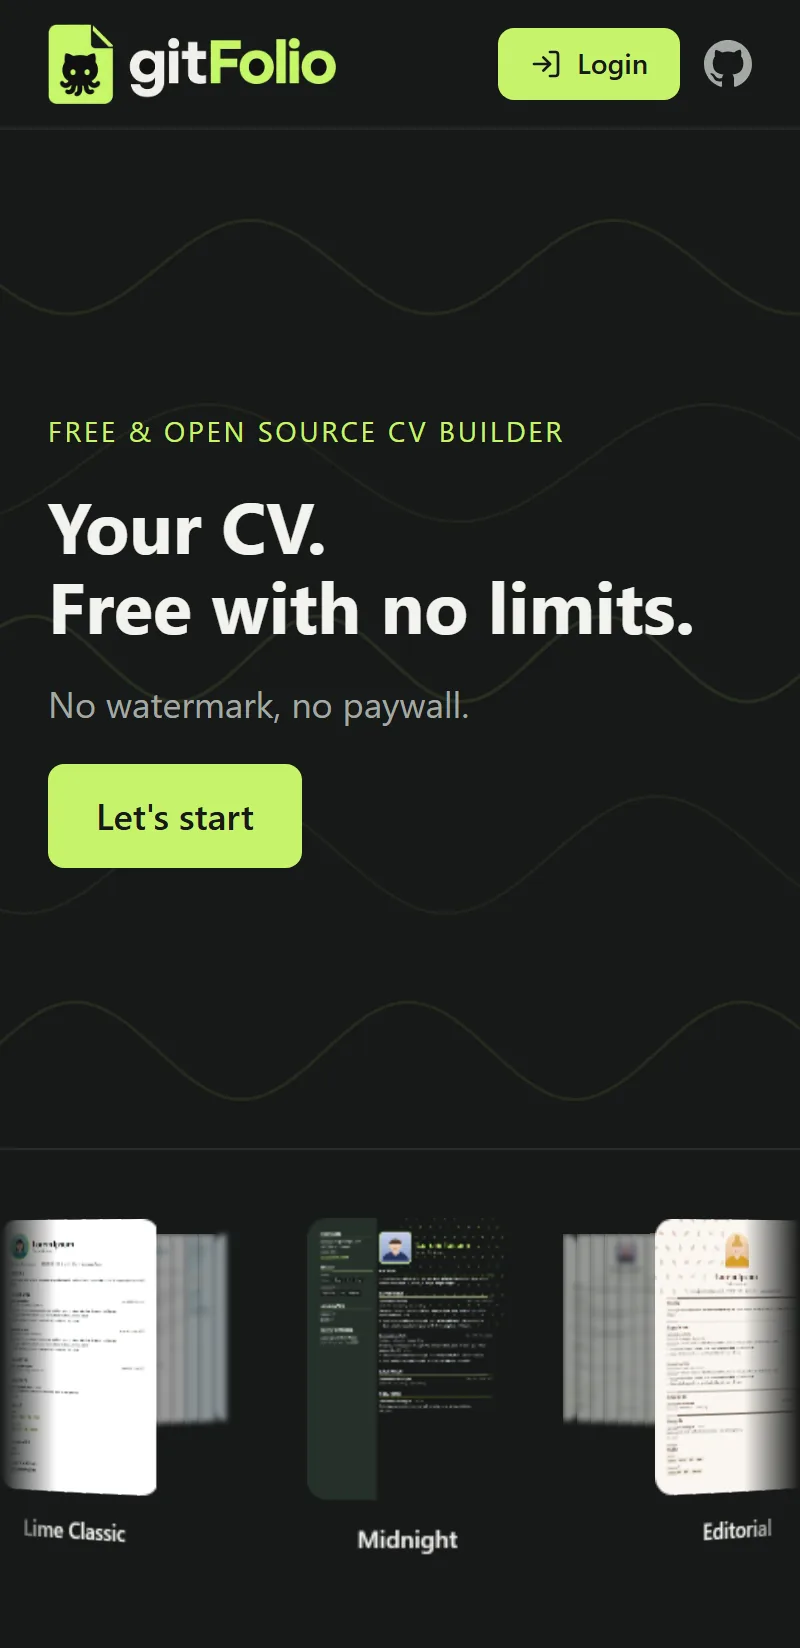
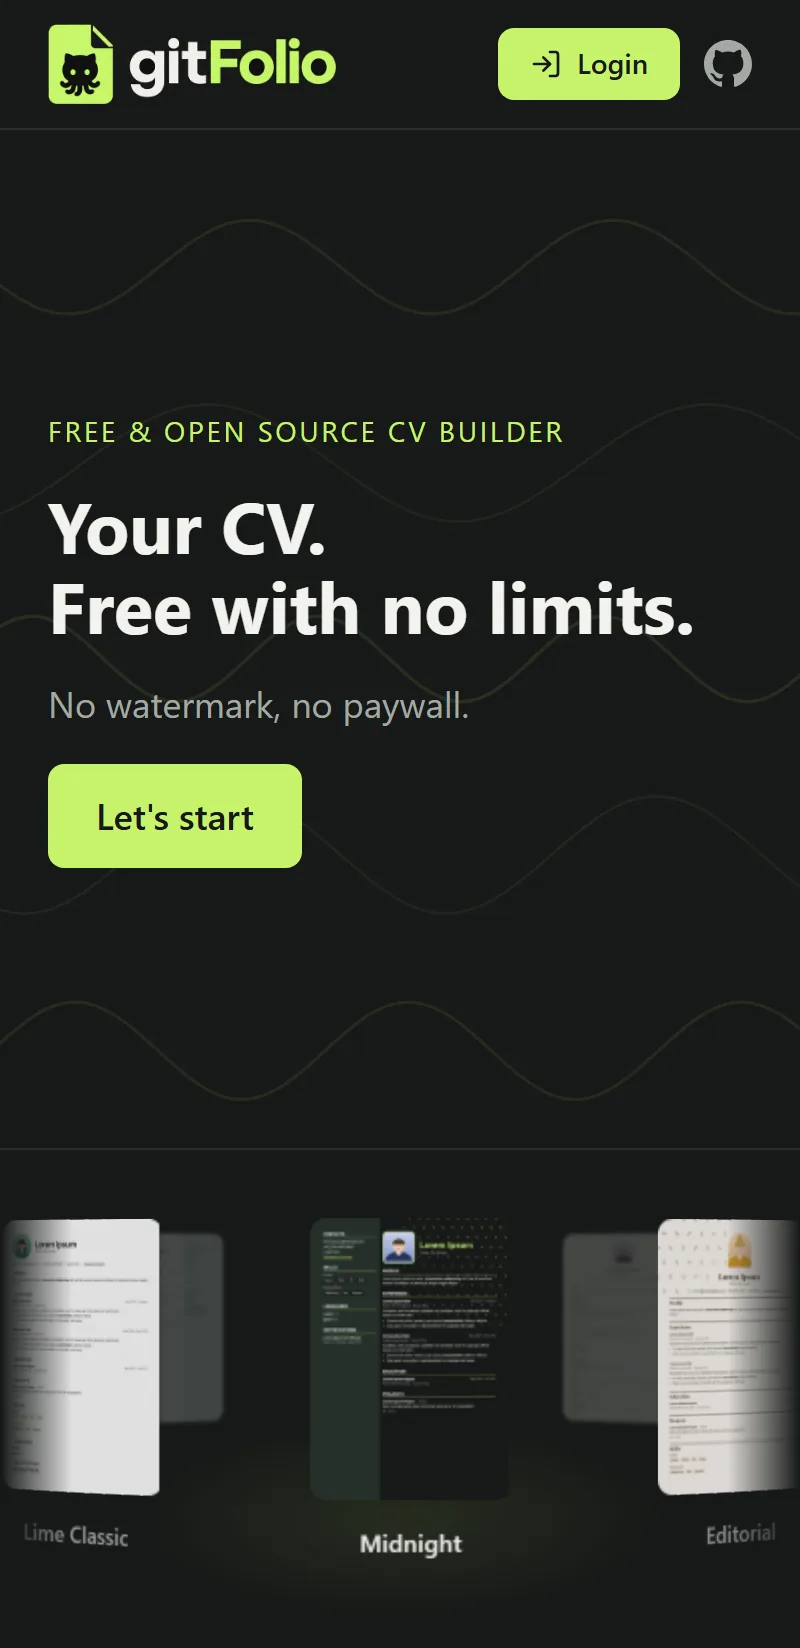
feat(landing): crisp premium carousel, iPhone interaction hint, hero shifted right
Carousel
- Fix the grainy look: 3D cards are GPU textures scaled without mipmaps, so the
  640px thumbnails aliased when shrunk ~5x. Cards now use pre-scaled Lanczos
  versions at display size (-c1 132px / -c2 264px via image-set); generator updated
- Depth lighting: side cards fade toward the background by angle (colour veil,
  not opacity, so overlapping slices don't show stripes)
- Far side of the ring is one soft blurred plane per card instead of 9 strips
- Soft lime spotlight under the front card, hover lift, "Use template ->" pill
  (on hover/focus; always visible on touch devices), muted side labels

iPhone
- Until first touched it swings right and back every ~6.5s and shows a pulsing
  "Drag to rotate" hint that fades out on the first drag
- Phone screen screenshot refreshed; phone + heading moved 64px right on >= xl

diff --git a/src/app/globals.css b/src/app/globals.css
@@ -23,17 +23,24 @@ body { background: var(--bg); color: var(--fg); font-family: system-ui, sans-ser
 :focus-visible { outline: 2px solid var(--focus); outline-offset: 2px; }
 @media (prefers-reduced-motion: reduce) { * { animation: none !important; transition: none !important; } }
 
-/* Carosello 3D: anello inclinato, card "curve" (fette lungo la circonferenza), posizione gestita da JS nel componente. */
+/* Carosello 3D: anello con card "curve" (fette lungo la circonferenza), posizione gestita da JS nel componente.
+   Nitidezza: le card sono texture GPU ridimensionate senza mipmap, quindi le immagini arrivano già alla misura mostrata
+   (-c1 = 132 px per schermi 1x, -c2 = 264 px per schermi 2x) invece di 640 px che darebbero un effetto puntinato. */
 .ring-stage {
-  --w: 100; --gap: 80; --slices: 9;
+  --w: 100; --gap: 80; --slices: 9; --radius: 8px;
   --card-w: calc(var(--w) * 1px);
   --card-h: calc(var(--card-w) * 1.414);
   --ring-r: calc((var(--card-w) + var(--gap) * 1px) * var(--n) / 6.28318);       /* raggio: card distanziate, anello ampio */
   --theta: calc(360deg * var(--w) / ((var(--w) + var(--gap)) * var(--n)));       /* angolo coperto da una card */
   position: relative; height: var(--stage-h); perspective: 1300px; perspective-origin: 50% 22%;
   overflow: hidden; user-select: none;
-  -webkit-mask-image: linear-gradient(90deg, transparent, #000 7%, #000 93%, transparent);
-  mask-image: linear-gradient(90deg, transparent, #000 7%, #000 93%, transparent);
+  -webkit-mask-image: linear-gradient(90deg, transparent, #000 9%, #000 91%, transparent);
+  mask-image: linear-gradient(90deg, transparent, #000 9%, #000 91%, transparent);
+}
+/* faretto morbido sotto la card davanti: dà un "palco" alla scena */
+.ring-stage::before {
+  content: ''; position: absolute; inset: 0; pointer-events: none;
+  background: radial-gradient(ellipse calc(var(--card-w) * 1.9) calc(var(--card-h) * .5) at 50% calc(50% + var(--card-h) / 2 - .4rem), rgb(198 243 107 / .09), transparent 70%);
 }
 /* altezza del carosello: serve anche alla home per calcolare lo spazio rimasto alla parte centrale */
 :root { --stage-h: 14rem; }
@@ -45,40 +52,67 @@ body { background: var(--bg); color: var(--fg); font-family: system-ui, sans-ser
 .ring-tilt { position: absolute; inset: 0; transform-style: preserve-3d; pointer-events: none; }
 .ring-track {
   position: absolute; left: 50%; top: calc(50% - var(--card-h) / 2 - 1rem); width: var(--card-w); height: var(--card-h); margin-left: calc(var(--card-w) / -2);
-  transform-style: preserve-3d; will-change: transform;
+  transform-style: preserve-3d; will-change: transform; transition: transform var(--glide) cubic-bezier(.22, .8, .25, 1);
 }
 .ring-card { position: absolute; inset: 0; transform-style: preserve-3d; }
-.ring-link { position: absolute; inset: 0; display: block; transform-style: preserve-3d; outline: none; }
+.ring-link { position: absolute; inset: 0; display: block; transform-style: preserve-3d; outline: none; transition: transform .35s cubic-bezier(.22, .8, .25, 1); }
+/* la luce è un velo del colore di fondo sopra l'immagine (non opacity: le fette sovrapposte farebbero righe) */
+.ring-slice, .ring-back {
+  --shade: calc(1 - var(--lit, 1));
+  background-image: linear-gradient(rgb(23 25 24 / var(--shade)), rgb(23 25 24 / var(--shade))), image-set(var(--img1) 1x, var(--img2) 2x);
+  background-repeat: no-repeat;
+}
 .ring-slice {
   position: absolute; top: 0; height: var(--card-h);
   width: calc(var(--card-w) / var(--slices) + 2px);                                  /* +2px di sovrapposizione: niente cuciture tra le fette */
   left: calc(50% - var(--card-w) / var(--slices) / 2);
-  background-size: var(--card-w) var(--card-h); background-repeat: no-repeat;
-  background-position: calc(var(--jb) * var(--card-w) / var(--slices) * -1) 0;
+  background-size: 100% 100%, var(--card-w) var(--card-h);
+  background-position: 0 0, calc(var(--j) * var(--card-w) / var(--slices) * -1) 0;
   transform: rotateY(calc(var(--a) + (var(--j) - 4) * var(--theta) / var(--slices))) translateZ(var(--ring-r));
-  backface-visibility: hidden; transition: filter .25s; pointer-events: auto;
+  backface-visibility: hidden; pointer-events: auto;
 }
-/* faccia interna: stessa posizione, girata di 180°; più scura perché è il lato "di fondo" dell'anello */
-.ring-slice-in { transform: rotateY(calc(var(--a) + (var(--j) - 4) * var(--theta) / var(--slices))) translateZ(var(--ring-r)) rotateY(180deg); filter: brightness(.6) blur(2.2px); }
-.ring-slice:nth-of-type(1), .ring-slice:nth-of-type(10) { border-radius: 10px 0 0 10px; }
-.ring-slice:nth-of-type(9), .ring-slice:nth-of-type(18) { border-radius: 0 10px 10px 0; }
+.ring-slice:nth-of-type(1) { border-radius: var(--radius) 0 0 var(--radius); }
+.ring-slice:nth-of-type(9) { border-radius: 0 var(--radius) var(--radius) 0; }
+/* faccia interna (card sul lato di fondo): un solo piano scuro e sfocato, nessuna striscia */
+.ring-back {
+  position: absolute; top: 0; left: 0; width: var(--card-w); height: var(--card-h); border-radius: var(--radius);
+  --lit: .5; background-size: cover; transform: rotateY(var(--a)) translateZ(var(--ring-r)) rotateY(180deg);
+  backface-visibility: hidden; filter: blur(1.6px); opacity: .4;
+}
+.ring-label, .ring-cta { position: absolute; top: 0; left: 0; width: var(--card-w); transform: rotateY(var(--a)) translateZ(calc(var(--ring-r) + 1px)); backface-visibility: hidden; }
 .ring-label {
-  position: absolute; top: 0; left: 0; width: var(--card-w); margin-top: calc(var(--card-h) + 10px); text-align: center;
-  font-size: 12px; font-weight: 600; color: var(--fg);
-  transform: rotateY(var(--a)) translateZ(var(--ring-r)); backface-visibility: hidden; transition: color .25s; pointer-events: auto;
+  margin-top: calc(var(--card-h) + 12px); text-align: center; white-space: nowrap;
+  font-size: 12px; font-weight: 500; letter-spacing: .01em; color: var(--fg-muted);
+  opacity: var(--lit); transition: color .25s, opacity var(--glide) ease-out; pointer-events: auto;
 }
-.ring-link:hover .ring-slice:not(.ring-slice-in) { filter: brightness(1.08); }
-.ring-label-in { display: none; } /* i nomi delle card sul lato di fondo creerebbero solo confusione */
+/* pulsante sulla card davanti: rende evidente che il clic apre l'editor con quel template */
+.ring-cta {
+  display: flex; justify-content: center; margin-top: calc(var(--card-h) - 26px); pointer-events: none;
+  opacity: 0; transition: opacity .3s;
+}
+.ring-cta > span {
+  padding: 3px 9px; border-radius: 999px; font-size: 9.5px; font-weight: 600; letter-spacing: .01em; white-space: nowrap;
+  background: var(--accent); color: var(--accent-fg); box-shadow: 0 4px 14px rgb(0 0 0 / .35);
+}
+.ring-card[aria-current] .ring-label { color: var(--fg); font-weight: 600; }
+/* il pulsante compare al passaggio del mouse / col focus; sui dispositivi touch (niente hover) è sempre visibile sulla card davanti */
+.ring-card[aria-current] .ring-link:focus-visible .ring-cta { opacity: 1; }
+@media (hover: none) { .ring-card[aria-current] .ring-cta { opacity: .9; transition-delay: .25s; } }
+.ring-card[aria-current] .ring-link:hover { transform: translateY(-6px); }
+.ring-card[aria-current] .ring-link:hover .ring-cta { opacity: 1; }
 .ring-link:hover .ring-label, .ring-link:focus-visible .ring-label { color: var(--accent-text); }
-.ring-link:focus-visible .ring-slice { box-shadow: inset 0 0 0 2px var(--accent); }
+.ring-link:focus-visible .ring-slice { box-shadow: inset 0 2px 0 var(--accent), inset 0 -2px 0 var(--accent); }
+.ring-link:focus-visible .ring-slice:nth-of-type(1) { box-shadow: inset 2px 2px 0 var(--accent), inset 0 -2px 0 var(--accent); }
+.ring-link:focus-visible .ring-slice:nth-of-type(9) { box-shadow: inset -2px 2px 0 var(--accent), inset 0 -2px 0 var(--accent); }
 @media (prefers-reduced-motion: reduce) {
   .ring-stage { flex: none; height: auto; perspective: none; overflow-x: auto; mask-image: none; -webkit-mask-image: none; cursor: auto !important; }
+  .ring-stage::before { display: none; }
   .ring-tilt { position: static; transform: none; }
   .ring-track { position: static; display: flex; gap: 1.25rem; width: max-content; height: auto; margin: 0 auto; padding: 0 1.5rem; transform: none !important; transition: none !important; }
   .ring-card { position: relative; width: var(--card-w); height: calc(var(--card-h) + 2rem); }
-  .ring-slice { left: calc(var(--j) * var(--card-w) / var(--slices)); transform: none; backface-visibility: visible; }
-  .ring-slice-in, .ring-label-in { display: none; }
-  .ring-label { transform: none; }
+  .ring-slice { left: calc(var(--j) * var(--card-w) / var(--slices)); transform: none; backface-visibility: visible; opacity: 1; }
+  .ring-back, .ring-cta { display: none; }
+  .ring-label { transform: none; opacity: 1; }
 }
 
 .ring-section { display: flex; flex-direction: column; flex: none; }
@@ -127,6 +161,15 @@ body { background: var(--bg); color: var(--fg); font-family: system-ui, sans-ser
 }
 .phone-lens-1 { left: 5%; top: 8%; } .phone-lens-2 { left: 5%; bottom: 8%; } .phone-lens-3 { left: 24%; top: 30%; }
 .phone-flash { position: absolute; right: 12%; top: 16%; width: 9%; aspect-ratio: 1; border-radius: 50%; background: radial-gradient(#fff6e0, #d9c9a8); }
+.phone-hint {
+  position: absolute; left: 50%; top: calc(100% + var(--ph) * 0.06); transform: translateX(-50%);
+  display: flex; align-items: center; gap: 6px; white-space: nowrap; pointer-events: none;
+  font-size: 12px; font-weight: 500; color: var(--fg-muted);
+  animation: phone-hint 2.4s ease-in-out infinite; transition: opacity .4s;
+}
+.phone-hint svg { color: var(--accent-text); }
+.phone-hint.is-hidden { opacity: 0 !important; animation: none; }
+@keyframes phone-hint { 0%, 100% { opacity: .55; } 50% { opacity: 1; } }
 .phone-btn { position: absolute; width: 3px; border-radius: 2px; background: linear-gradient(90deg, #c45a19, #f19a55); }
 .phone-btn-action { left: -2px; top: 17%; height: 5%; }
 .phone-btn-vol-up { left: -2px; top: 25%; height: 9%; }

diff --git a/src/components/template-carousel.tsx b/src/components/template-carousel.tsx
@@ -18,7 +18,7 @@ const INERTIA_S = 0.35;        // quanto lontano porta lo slancio del rilascio (
  * (cliccando quella davanti si apre l'editor). Il mouse sopra NON ferma l'avanzamento; si ferma solo col focus da tastiera
  * o durante un gesto. Con "riduci movimento" è una fila piatta scorrevole.
  */
-export function TemplateCarousel({ locale, label }: { locale: string; label: string }) {
+export function TemplateCarousel({ locale, label, cta }: { locale: string; label: string; cta: string }) {
   const n = presets.length;
   const angle = 360 / n;
   const [pos, setPos] = useState(0);            // posizione in "card" (frazionaria durante il trascinamento)
@@ -92,6 +92,13 @@ export function TemplateCarousel({ locale, label }: { locale: string; label: str
     setDragging(false);
   };
 
+  /** Luce in base all'angolo rispetto allo spettatore: davanti piena, ai lati sempre più scura. */
+  const lit = (i: number) => {
+    let d = (((i - pos) % n) + n) % n;
+    if (d > n / 2) d -= n;
+    return 0.35 + 0.65 * Math.max(0, Math.cos((d * angle * Math.PI) / 180)) ** 1.6;
+  };
+
   /** Card davanti: apre l'editor. Card laterale: la porta davanti. */
   const onCardClick = (e: React.MouseEvent, i: number) => {
     if (justDragged.current) return e.preventDefault();
@@ -113,23 +120,23 @@ export function TemplateCarousel({ locale, label }: { locale: string; label: str
     <section aria-label={label} className="ring-section border-t border-border bg-bg pb-2 pt-2" onKeyDown={onKeyDown}
       onFocusCapture={(e) => { if ((e.target as HTMLElement).matches(':focus-visible')) paused.current = true; }}
       onBlurCapture={() => { paused.current = false; }}>
-      <div className="ring-stage" style={{ ['--n' as string]: n, touchAction: 'pan-y', cursor: dragging ? 'grabbing' : 'grab' }}
+      <div className="ring-stage" style={{ ['--n' as string]: n, ['--glide' as string]: dragging ? '0ms' : `${glide}ms`, touchAction: 'pan-y', cursor: dragging ? 'grabbing' : 'grab' }}
         onPointerDown={onPointerDown} onPointerMove={onPointerMove} onPointerUp={endDrag} onPointerCancel={endDrag}>
         <div className="ring-tilt">
-          <ul className="ring-track" style={{ transform: `translateZ(calc(var(--ring-r) * -1)) rotateY(${-pos * angle}deg)`, transition: dragging ? 'none' : `transform ${glide}ms cubic-bezier(.22,.8,.25,1)` }}>
+          <ul className="ring-track" style={{ transform: `translateZ(calc(var(--ring-r) * -1)) rotateY(${-pos * angle}deg)` }}>
             {presets.map((p, i) => (
-              <li key={p.id} className="ring-card" style={{ ['--a' as string]: `${i * angle}deg` }} aria-current={i === front ? 'true' : undefined}>
+              <li key={p.id} className="ring-card" aria-current={i === front ? 'true' : undefined}
+                style={{ ['--a' as string]: `${i * angle}deg`, ['--lit' as string]: lit(i).toFixed(3),
+                  ['--img1' as string]: `url(${withBasePath(`/templates/${p.id}-c1.webp`)})`, ['--img2' as string]: `url(${withBasePath(`/templates/${p.id}-c2.webp`)})` }}>
                 <a href={withBasePath(`/${locale}/editor/?preset=${p.id}`)} title={p.blurb} draggable={false} aria-label={`${p.name} CV template`} onClick={(e) => onCardClick(e, i)}
                   className="ring-link">
                   {Array.from({ length: SLICES }, (_, j) => (
-                    <span key={`o${j}`} aria-hidden className="ring-slice" style={{ ['--j' as string]: j, ['--jb' as string]: j, backgroundImage: `url(${withBasePath(`/templates/${p.id}.webp`)})` }} />
+                    <span key={j} aria-hidden className="ring-slice" style={{ ['--j' as string]: j }} />
                   ))}
-                  {/* faccia interna: visibile solo per le card sul lato opposto dell'anello (sequenza invertita: si legge dritta) */}
-                  {Array.from({ length: SLICES }, (_, j) => (
-                    <span key={`i${j}`} aria-hidden className="ring-slice ring-slice-in" style={{ ['--j' as string]: j, ['--jb' as string]: SLICES - 1 - j, backgroundImage: `url(${withBasePath(`/templates/${p.id}.webp`)})` }} />
-                  ))}
+                  {/* faccia interna: un solo piano, visibile solo per le card sul lato opposto dell'anello */}
+                  <span aria-hidden className="ring-back" />
+                  <span aria-hidden className="ring-cta"><span>{cta} →</span></span>
                   <span aria-hidden className="ring-label">{p.name}</span>
-                  <span aria-hidden className="ring-label ring-label-in">{p.name}</span>
                 </a>
               </li>
             ))}

diff --git a/src/components/phone-mock.tsx b/src/components/phone-mock.tsx
@@ -1,6 +1,7 @@
 'use client';
 
-import { useEffect, useRef, type PointerEvent, type ReactNode } from 'react';
+import { useEffect, useRef, useState, type PointerEvent, type ReactNode } from 'react';
+import { Rotate3d } from 'lucide-react';
 import { withBasePath } from '@/config/brand';
 
 const REST = { rx: 5, ry: -1 };   // posa di riposo (vista leggermente dall'alto)
@@ -12,20 +13,27 @@ const FRICTION = 3.5;             // decadimento dello slancio (1/s)
 const RETURN_AFTER_MS = 1800;     // dopo il rilascio torna di fronte dopo questo tempo
 const RETURN_RATE = 2.5;          // velocità del ritorno (1/s)
 const EDGES = 12;                 // strati che formano lo spessore
+const NUDGE_FIRST_MS = 1400;      // invito all'interazione: mezzo giro avanti e indietro, finché l'utente non lo tocca
+const NUDGE_EVERY_MS = 6500;
+const NUDGE_MS = 1700;
+const NUDGE_DEG = 28;
 
 /**
  * iPhone realizzato in CSS (nessuna libreria 3D): finitura arancio, spessore, retro con fotocamere, Dynamic Island.
  * Dondola da solo; si può ruotare trascinandolo (con slancio), poi torna lentamente di fronte.
+ * Finché non viene toccato, ogni tanto accenna una rotazione e mostra `hint` (es. "Drag to rotate").
  * `children` è lo schermo: per ora una schermata statica della home; in seguito si potrà sostituire con un <video>.
  */
-export function PhoneMock({ children }: { children?: ReactNode }) {
+export function PhoneMock({ children, hint }: { children?: ReactNode; hint?: string }) {
   const scene = useRef<HTMLDivElement>(null);
   const body = useRef<HTMLDivElement>(null);
-  const s = useRef({ rx: 0, ry: 0, vx: 0, vy: 0, id: -1, x: 0, y: 0, t: 0, last: 0 });
+  const s = useRef({ rx: 0, ry: 0, vx: 0, vy: 0, id: -1, x: 0, y: 0, t: 0, last: 0, n: 0, touched: false });
+  const [touched, setTouched] = useState(false);
 
   useEffect(() => {
     const reduce = window.matchMedia('(prefers-reduced-motion: reduce)').matches;
     let raf = 0, prev = performance.now();
+    const start = prev;
     const frame = (now: number) => {
       raf = requestAnimationFrame(frame);
       const dt = Math.min(0.05, (now - prev) / 1000); prev = now;
@@ -39,10 +47,16 @@ export function PhoneMock({ children }: { children?: ReactNode }) {
         }
         st.rx = Math.max(-RX_MAX, Math.min(RX_MAX, st.rx));
       }
+      st.n = 0;
+      const since = now - start - NUDGE_FIRST_MS;
+      if (!reduce && !st.touched && since >= 0) {
+        const p = (since % NUDGE_EVERY_MS) / NUDGE_MS; // oscillazione smorzata: destra, sinistra, ferma
+        if (p < 1) st.n = NUDGE_DEG * Math.sin(p * Math.PI * 2) * (1 - p) ** 0.7;
+      }
       const w = reduce ? 0 : Math.sin((now / 1000 / SWAY_S) * Math.PI * 2);
       const c = reduce ? 0 : Math.cos((now / 1000 / SWAY_S) * Math.PI * 2);
       if (body.current) body.current.style.transform =
-        `rotateX(${REST.rx + SWAY.rx * c + st.rx}deg) rotateY(${REST.ry + SWAY.ry * w + st.ry}deg)`;
+        `rotateX(${REST.rx + SWAY.rx * c + st.rx}deg) rotateY(${REST.ry + SWAY.ry * w + st.ry + st.n}deg)`;
     };
     raf = requestAnimationFrame(frame);
     return () => cancelAnimationFrame(raf);
@@ -50,7 +64,10 @@ export function PhoneMock({ children }: { children?: ReactNode }) {
 
   const onDown = (e: PointerEvent<HTMLDivElement>) => {
     if (e.pointerType === 'mouse' && e.button !== 0) return;
-    Object.assign(s.current, { id: e.pointerId, x: e.clientX, y: e.clientY, t: performance.now(), vx: 0, vy: 0 });
+    const st = s.current;
+    st.ry += st.n; st.n = 0; // l'eventuale invito in corso diventa la posizione di partenza: nessuno scatto
+    Object.assign(st, { id: e.pointerId, x: e.clientX, y: e.clientY, t: performance.now(), vx: 0, vy: 0, touched: true });
+    setTouched(true);
     e.currentTarget.setPointerCapture(e.pointerId);
     scene.current?.classList.add('is-dragging');
   };
@@ -74,6 +91,12 @@ export function PhoneMock({ children }: { children?: ReactNode }) {
   return (
     <div ref={scene} className="phone-scene" aria-hidden onPointerDown={onDown} onPointerMove={onMove} onPointerUp={onUp} onPointerCancel={onUp}>
       <div className="phone-shadow" />
+      {hint && (
+        <span className={`phone-hint${touched ? ' is-hidden' : ''}`}>
+          <Rotate3d aria-hidden size={14} strokeWidth={2} />
+          {hint}
+        </span>
+      )}
       <div ref={body} className="phone-sway">
         {Array.from({ length: EDGES }, (_, k) => <span key={k} className="phone-edge" style={{ ['--k' as string]: k }} />)}
         <span className="phone-btn phone-btn-action" />

diff --git a/src/app/[locale]/page.tsx b/src/app/[locale]/page.tsx
@@ -29,13 +29,13 @@ export default function HomePage({ params }: { params: Promise<{ locale: string 
             {t('cta')}
           </a>
         </section>
-        <div className="hidden items-center gap-8 lg:flex">
-          <PhoneMock />
+        <div className="hidden items-center gap-8 lg:flex xl:translate-x-16">
+          <PhoneMock hint={t('phoneHint')} />
           <h2 className="max-w-[11ch] text-2xl font-bold sm:text-3xl [@media(max-height:700px)]:text-2xl">{t('pocket')}</h2>
         </div>
       </div>
       </div>
-      <TemplateCarousel locale={locale} label={t('templatesLabel')} />
+      <TemplateCarousel locale={locale} label={t('templatesLabel')} cta={t('useTemplate')} />
     </div>
   );
 }
